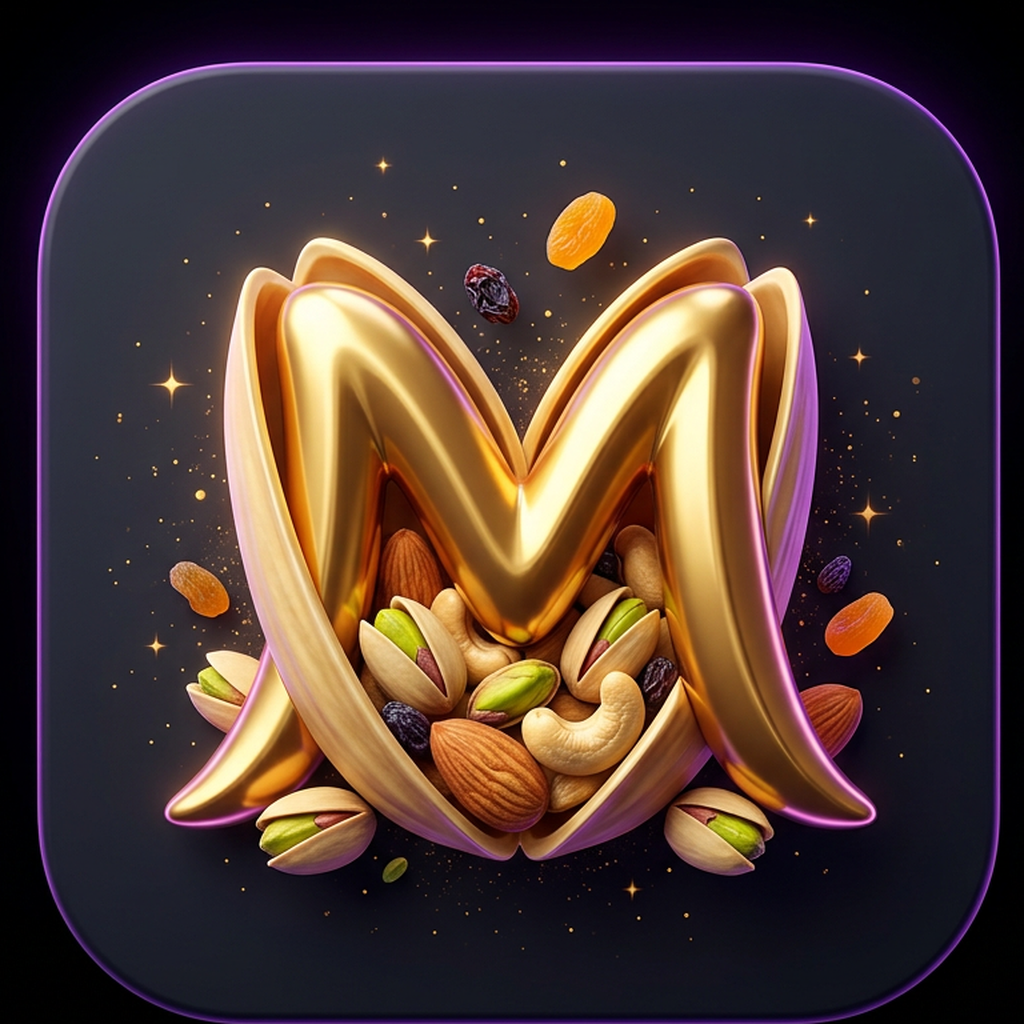
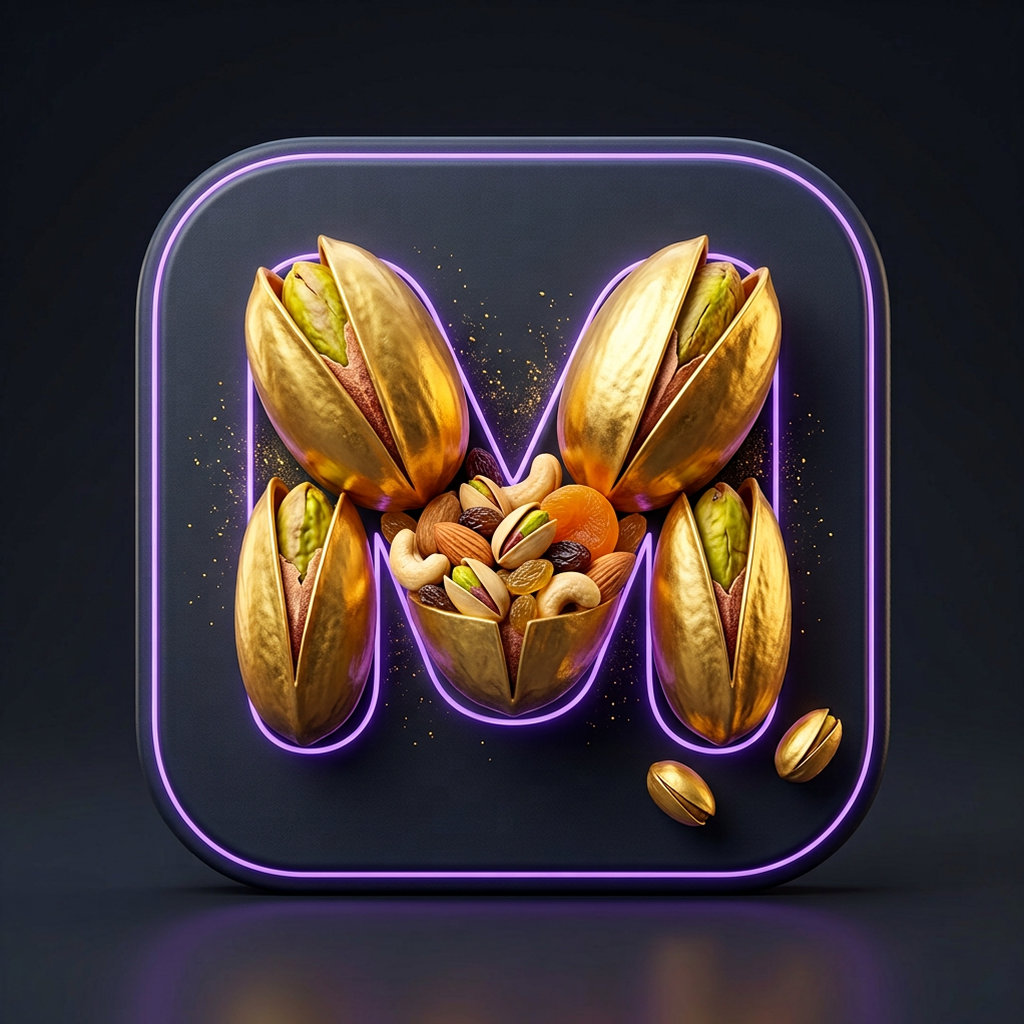
release(v1.1.0): آیکون خلاقانه جدید M+پسته/کاسه آجیل، bump نسخه

diff --git a/app/src/main/java/ir/atiran/vizitor/ui/screens/ReportsScreen.kt b/app/src/main/java/ir/atiran/vizitor/ui/screens/ReportsScreen.kt
@@ -251,7 +251,7 @@ fun ReportsScreen(viewModel: VizitorViewModel) {
             GlassCard(modifier = Modifier.fillMaxWidth()) {
                 Column {
                     Text(
-                        "آتیران ویزیتور — نسخه ۱٫۰٫۰",
+                        "آتیران ویزیتور — نسخه ۱٫۱٫۰",
                         style = MaterialTheme.typography.titleMedium,
                         color = Gold
                     )
